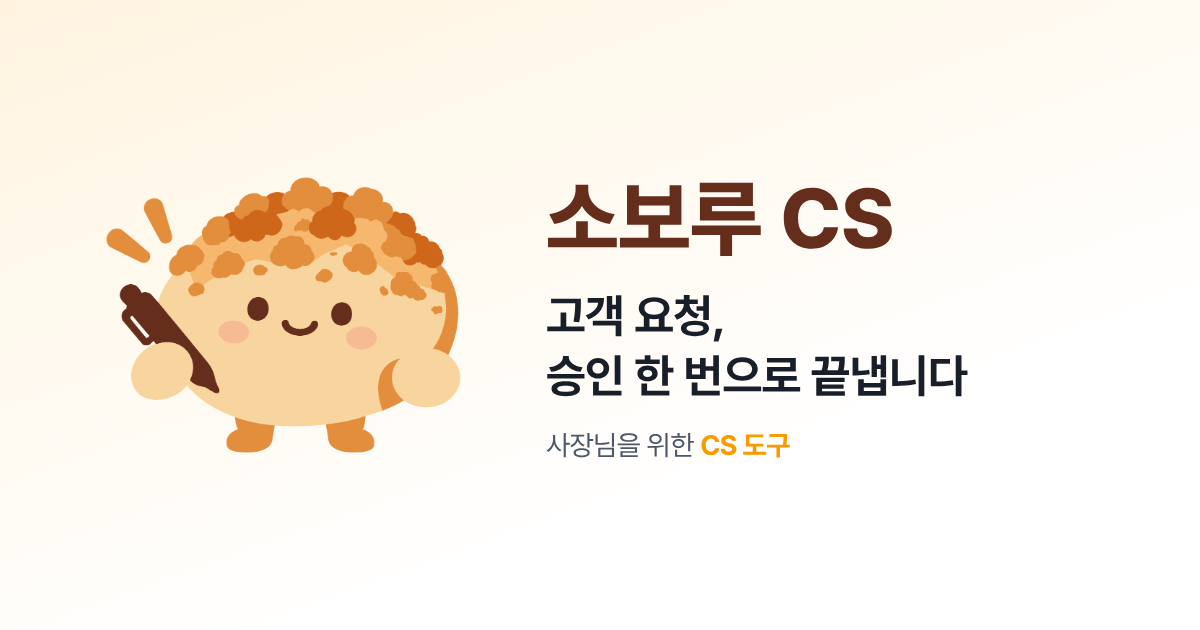
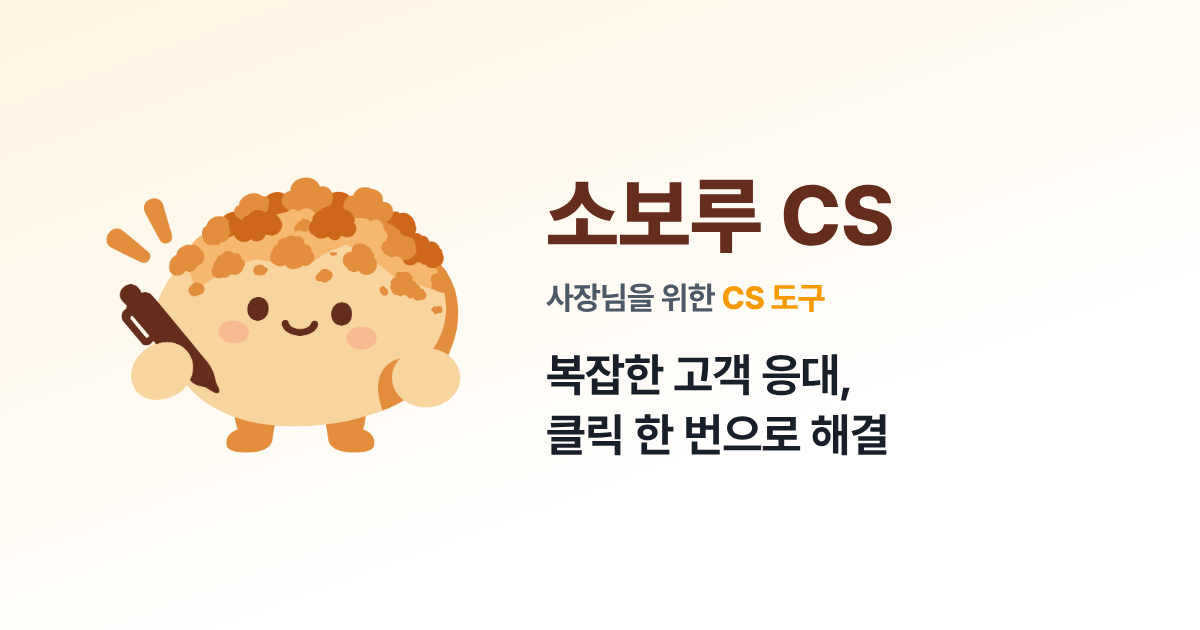
공유 미리보기 문구 순서, 비밀번호 찾기 안내 화면 (#95)
* 공유 미리보기 문구 순서, 비밀번호 찾기를 운영팀 문의 안내 화면으로

- 공유 미리보기: 소보루 CS / 사장님을 위한 CS 도구 / 복잡한 고객 응대, 클릭 한 번으로 해결
- 메일이 꺼져 있으면 비밀번호 찾기는 운영팀에 문의하면 재설정 링크를 보내 준다는 안내 화면 (운영 이메일 복사)

Claude-Session: https://claude.ai/code/session_01AeAi4qfG8MKzNnTkxkLEmg

* 비밀번호 찾기 안내에서 연락처 칸 빼기

Claude-Session: https://claude.ai/code/session_01AeAi4qfG8MKzNnTkxkLEmg

---------

Changed region(s): [[0.4317, 0.4524, 0.8017, 0.7238], [0.4625, 0.2714, 0.6475, 0.3921], [0.6475, 0.2714, 0.74, 0.3921]]

diff --git a/platform_app/templates/b_forgot.html b/platform_app/templates/b_forgot.html
@@ -5,6 +5,9 @@
 {% block body %}<div class="auth panel"><a class="logo biz" href="{{ url_for('login') }}">{{ b.soboru_logo() }}</a>
 {% if reset %}<h1 class="h1" style="margin-top:20px">새 비밀번호 정하기</h1>
 <form method="post" class="stack" style="margin-top:24px"><input type="hidden" name="csrf" value="{{ csrf_token() }}"><input class="inp" name="password" type="password" minlength="10" placeholder="새 비밀번호 (10자 이상)" required autocomplete="new-password"><button class="btn full">바꾸기</button></form>
+{% elif not mail %}<h1 class="h1" style="margin-top:20px">비밀번호를 잊으셨나요?</h1><p class="sub" style="margin-top:8px">{{ BNAME }} 운영팀에 문의해 주시면 새 비밀번호를 정할 수 있는 링크를 보내 드려요.</p>
+<ol class="pw-steps"><li><b>운영팀에 문의해 주세요</b><span>가입할 때 쓴 로그인 이메일과 회사 이름을 알려 주세요.</span></li><li><b>재설정 링크를 받아요</b><span>운영팀이 확인하고 링크를 보내 드려요. 링크는 1시간 동안 열려요.</span></li><li><b>새 비밀번호를 정해요</b><span>링크를 열어 새 비밀번호를 정하면 바로 로그인할 수 있어요.</span></li></ol>
+<a class="btn full" href="{{ url_for('login') }}" style="margin-top:24px">로그인으로 돌아가기</a>
 {% else %}<h1 class="h1" style="margin-top:20px">비밀번호 찾기</h1><p class="sub" style="margin-top:8px">로그인 이메일로 재설정 링크를 보내 드립니다</p>
 <form method="post" class="stack" style="margin-top:24px"><input type="hidden" name="csrf" value="{{ csrf_token() }}"><input class="inp" name="login_id" type="email" placeholder="로그인 이메일" required autocomplete="username"><button class="btn full">링크 받기</button></form>
 <p class="cap" style="text-align:center;margin-top:16px"><a href="{{ url_for('login') }}" style="text-decoration:underline">로그인으로 돌아가기</a></p>{% endif %}</div>{% endblock %}

diff --git a/platform_app/templates/base.html b/platform_app/templates/base.html
@@ -15,13 +15,13 @@
 <link rel="canonical" href="{{ request.base_url }}">
 {% if request.endpoint in ('home','login','decide') %}{% if VERIFY[site] %}<meta name="naver-site-verification" content="{{ VERIFY[site] }}">{% endif %}{% if GOOGLE_VERIFY[site] %}<meta name="google-site-verification" content="{{ GOOGLE_VERIFY[site] }}">{% endif %}{% endif %}
 <meta property="og:locale" content="ko_KR">
-{% if site=='biz' %}<meta property="og:image" content="{{ url_for('static',filename='og-biz.png',_external=True) }}?v=2"><meta property="og:image:width" content="1200"><meta property="og:image:height" content="630">{% endif %}
+{% if site=='biz' %}<meta property="og:image" content="{{ url_for('static',filename='og-biz.png',_external=True) }}?v=3"><meta property="og:image:width" content="1200"><meta property="og:image:height" content="630">{% endif %}
 <meta name="twitter:card" content="summary_large_image">
 <meta name="title" content="{{ self.title()|trim }}">
 {% block head %}{% endblock %}
 <link rel="icon" type="image/png" href="{{ url_for('static',filename='soboru-favicon.png') }}?v=2"><link rel="apple-touch-icon" href="{{ url_for('static',filename='soboru-touch.png') }}?v=2">
 <link rel="stylesheet" href="https://cdn.jsdelivr.net/gh/orioncactus/pretendard@v1.3.9/dist/web/variable/pretendardvariable-dynamic-subset.min.css">
-<link rel="stylesheet" href="{{ url_for('static',filename='hanq.css') }}?v=54">
+<link rel="stylesheet" href="{{ url_for('static',filename='hanq.css') }}?v=55">
 </head>
 <body class="v2">
 {% block bar %}{% endblock %}

diff --git a/platform_app/static/hanq.css b/platform_app/static/hanq.css
@@ -1278,3 +1278,7 @@ html:has(.intro){scroll-behavior:smooth}
 @media (max-width:767.98px){.vz-dev{margin-left:0}.vz-stage{padding:8px;border-radius:18px}}
 .co-act{display:flex;gap:6px;align-items:center}.co-act .inp{width:150px}
 @media (max-width:767.98px){.co-row{flex-wrap:wrap}.co-row .co-act{flex-basis:100%;justify-content:flex-end}.co-row .co-act .inp{flex:1;width:auto;min-width:0}}
+.pw-steps{list-style:none;margin:24px 0 0;padding:0;display:grid;gap:16px;counter-reset:pw}
+.pw-steps li{display:grid;grid-template-columns:28px 1fr;column-gap:12px;row-gap:2px;counter-increment:pw}
+.pw-steps li::before{content:counter(pw);grid-row:span 2;width:28px;height:28px;border-radius:50%;background:var(--accent-soft);color:var(--accent);font-weight:700;font-size:14px;display:flex;align-items:center;justify-content:center}
+.pw-steps b{font-size:16px;font-weight:600;color:var(--fg)}.pw-steps span{font-size:14px;color:var(--fg2);line-height:1.5}

diff --git a/tests/test_platform.py b/tests/test_platform.py
@@ -380,8 +380,10 @@ class PlatformTest(unittest.TestCase):
             self.post(x,f'/biz/reset/{link}',{'password':'newpassword99'})
             self.assertEqual(self.post(x,'/biz/login',{'login_id':'pw@example.com','password':'newpassword99'},'/biz/login').status_code,302)
             self.assertIn('만료',x.get(f'/biz/reset/{link}',follow_redirects=True).get_data(as_text=True))  # 한 번 쓰면 끝
+        # 메일이 꺼져 있으면 비밀번호 찾기는 운영팀 문의 안내 화면
+        g=self.client().get('/biz/forgot').get_data(as_text=True);self.assertIn('운영팀에 문의',g);self.assertNotIn('name="login_id"',g)
         # 메일이 꺼져 있어도 운영 화면에서 재설정 링크를 만들어 보낼 수 있다
-        self.assertIn('운영팀에 연락',self.post(self.client(),'/biz/forgot',{'login_id':'pw@example.com'},follow_redirects=True).get_data(as_text=True))
+        self.assertIn('운영팀에 연락',self.post(self.client(),'/biz/forgot',{'login_id':'pw@example.com'},'/biz/login',follow_redirects=True).get_data(as_text=True))
         page=self.post(o,'/biz/ops/companies',{'act':'pwlink','id':str(cid)},follow_redirects=True).get_data(as_text=True)
         y=self.client();self.post(y,'/biz/reset/'+re.search(r'/reset/([^\s<]+)',page).group(1),{'password':'another1234x'})
         self.assertEqual(self.post(y,'/biz/login',{'login_id':'pw@example.com','password':'another1234x'},'/biz/login').status_code,302)

diff --git a/platform_app/business.py b/platform_app/business.py
@@ -120,7 +120,8 @@ def forgot():
     if request.method=='POST':
         msg,level=send_reset(request.form.get('login_id'));flash(msg,level)
         if level=='ok':return redirect(url_for('login'))
-    return render_template('b_forgot.html')
+    # 메일이 꺼져 있으면 운영팀에 문의하라는 안내 화면 (운영 화면 기업 관리에서 재설정 링크를 만들어 보낸다)
+    return render_template('b_forgot.html',mail=core.mail_ready())
 def send_reset(login_id):
     lid=clean(login_id,80).lower()
     if core.throttled('forgot',limit=5,minutes=30):return '잠시 후 다시 시도해 주세요.','error'
